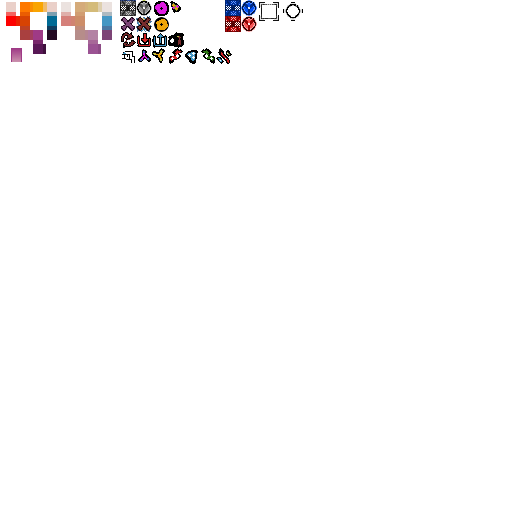
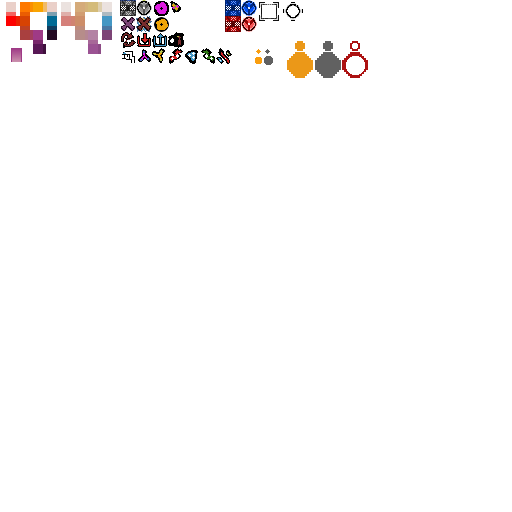
Add small and big brushes for drawing duct, floor and clearing.

Changed region(s): [[0.5625, 0.0625, 0.7188, 0.1562], [0.5, 0.0938, 0.5312, 0.125]]

diff --git a/core/src/net/mostlyoriginal/game/manager/EntityFactoryManager.java b/core/src/net/mostlyoriginal/game/manager/EntityFactoryManager.java
@@ -122,11 +122,13 @@ public class EntityFactoryManager extends Manager {
 
         createInstancingButton("tool-resource-node", "resource-node", "resourceNode", 50);
         createInstancingButton("tool-techpoint", "techpoint", "techpoint", 50 + 40*1);
-        createDrawingButton("tool-resource-node", "techpoint", "techpoint", 50 + 40 * 2, 4, NavigationGridCalculationSystem.DUCT_COLOR);
-        createDrawingButton("tool-resource-node", "techpoint", "techpoint", 50 + 40 * 3, 4, NavigationGridCalculationSystem.FLOOR_COLOR);
-        createDrawingButton("tool-resource-node", "techpoint", "techpoint", 50 + 40 * 4, 4, Color.WHITE);
-        //createInstancingButton("duct", "duct", "duct", 50 + 40*2);
-        //createInstancingButton("wall", "wall", "wall", 50 + 40 * 3);
+
+        createDrawingButton("tool-draw-duct",  50 + 10 + 40 * 2, 2, NavigationGridCalculationSystem.DUCT_COLOR, 80);
+        createDrawingButton("tool-draw-floor",  50 + 10 + 40 * 3, 2, NavigationGridCalculationSystem.FLOOR_COLOR, 80);
+        createDrawingButton("tool-draw-clear",  50 + 10 + 40 * 4, 2, Color.WHITE, 80);
+        createDrawingButton("tool-draw-duct", 50 + 40 * 2, 6, NavigationGridCalculationSystem.DUCT_COLOR, 30);
+        createDrawingButton("tool-draw-floor",  50 + 40 * 3, 6, NavigationGridCalculationSystem.FLOOR_COLOR, 30);
+        createDrawingButton("tool-draw-clear", 50 + 40 * 4, 6, Color.WHITE, 30);
 
         addMaskTitle(RenderMask.Mask.BASIC, "Map overview", "Drag and place techpoints, rts, blockades and ducts.", "", "Rightclick to delete. Middleclick to cycle team on techpoints.");
         addMaskTitle(RenderMask.Mask.RT_PRESSURE, "RT head start", "highlight team that reaches RT first.", "Number signifies seconds head start.","Assign at least two techpoints to different teams.");
@@ -139,8 +141,8 @@ public class EntityFactoryManager extends Manager {
 
     LayerManager layerManager;
 
-    private void createDrawingButton(final String toolIcon, final String animId, final String entityId, int x, final int scale, final Color color) {
-        Entity button = createBasicButton(animId, x, new ButtonListener() {
+    private void createDrawingButton(final String toolIcon, int x, final int scale, final Color color, int y) {
+        Entity button = createBasicButton(toolIcon, x, new ButtonListener() {
             @Override
             public void run() {
 
@@ -182,14 +184,18 @@ public class EntityFactoryManager extends Manager {
                 });
                 tool.continuous = true;
                 toolSystem.reset();
-                new EntityBuilder(world).with(tool, new Pos(), new Renderable(1200), new Anim(toolIcon)).build();
+                Anim toolAnim = new Anim(toolIcon);
+                toolAnim.scale = scale / 2f;
+                new EntityBuilder(world).with(tool, new Pos(), new Renderable(1200), toolAnim).build();
             }
 
             @Override
             public boolean enabled() {
                 return true;
             }
-        }, 50);
+        }, y);
+
+        mAnim.get(button).scale = scale / 2f;
 
         // make only visible when rendering.
     }

diff --git a/core/src/net/mostlyoriginal/game/system/logic/ToolSystem.java b/core/src/net/mostlyoriginal/game/system/logic/ToolSystem.java
@@ -47,9 +47,10 @@ public class ToolSystem extends EntityProcessingSystem {
 			Pos cursorPos = mPos.get(cursor);
 			Pos toolPos = mPos.get(e);
 
-			TextureRegion icon = assetSystem.get(mAnim.get(e).id).getKeyFrame(0);
-			toolPos.x = cursorPos.x - icon.getRegionWidth()/2;
-			toolPos.y = cursorPos.y - icon.getRegionHeight()/2;
+			Anim anim = mAnim.get(e);
+			TextureRegion icon = assetSystem.get(anim.id).getKeyFrame(0);
+			toolPos.x = cursorPos.x - (icon.getRegionWidth()/2 * anim.scale);
+			toolPos.y = cursorPos.y - (icon.getRegionHeight()/2 * anim.scale);
 
 			Clickable clickable = mClickable.get(e);
 			if ( Gdx.input.isButtonPressed(0) )

diff --git a/core/src/net/mostlyoriginal/game/manager/AssetSystem.java b/core/src/net/mostlyoriginal/game/manager/AssetSystem.java
@@ -54,6 +54,11 @@ public class AssetSystem extends net.mostlyoriginal.api.manager.AbstractAssetSys
         add("tool-techpoint", 259, 2, 20,19, 1);
         add("tool-resource-node", 283, 2, 20,19, 1);
 
+        add("tool-draw-duct", 295, 41, 10, 10, 1);
+        add("tool-draw-floor",323, 41, 10, 10, 1);
+        add("tool-draw-clear", 350, 41, 10, 10, 1);
+
+
         loadSounds(new String[]{
         });
     }

diff --git a/core/src/net/mostlyoriginal/game/system/logic/analysis/RouteCalculationSystem.java b/core/src/net/mostlyoriginal/game/system/logic/analysis/RouteCalculationSystem.java
@@ -146,7 +146,7 @@ public class RouteCalculationSystem extends DelayedEntitySystem {
 	@Override
 	protected long maxDuration() {
 		// routes to calculate each run.
-		return 10;
+		return 2;
 	}
 
 	private class SortRoutesJob implements Job {

diff --git a/core/src/net/mostlyoriginal/game/system/logic/analysis/NavigationGridCalculationSystem.java b/core/src/net/mostlyoriginal/game/system/logic/analysis/NavigationGridCalculationSystem.java
@@ -38,7 +38,7 @@ public class NavigationGridCalculationSystem extends DelayedEntitySystem {
 
 	@Override
 	protected long maxDuration() {
-		return 10;
+		return 2;
 	}
 
 	public boolean similar(Color c1, Color c2, float tolerance)

diff --git a/core/src/net/mostlyoriginal/game/system/logic/analysis/PreferredRouteCalculationSystem.java b/core/src/net/mostlyoriginal/game/system/logic/analysis/PreferredRouteCalculationSystem.java
@@ -47,7 +47,7 @@ public class PreferredRouteCalculationSystem extends DelayedEntitySystem {
 
 	@Override
 	protected long maxDuration() {
-		return 10;
+		return 2;
 	}
 
 	@Override
